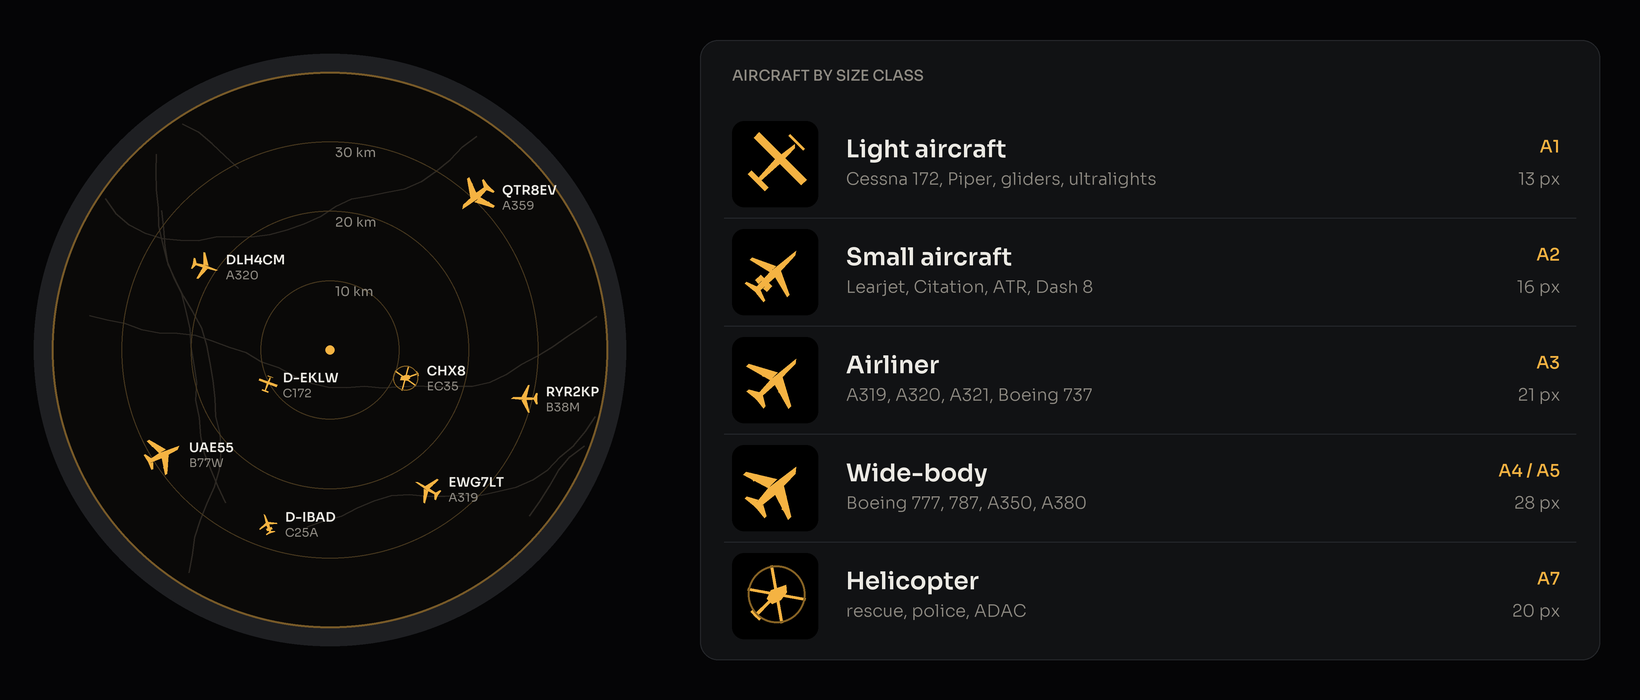
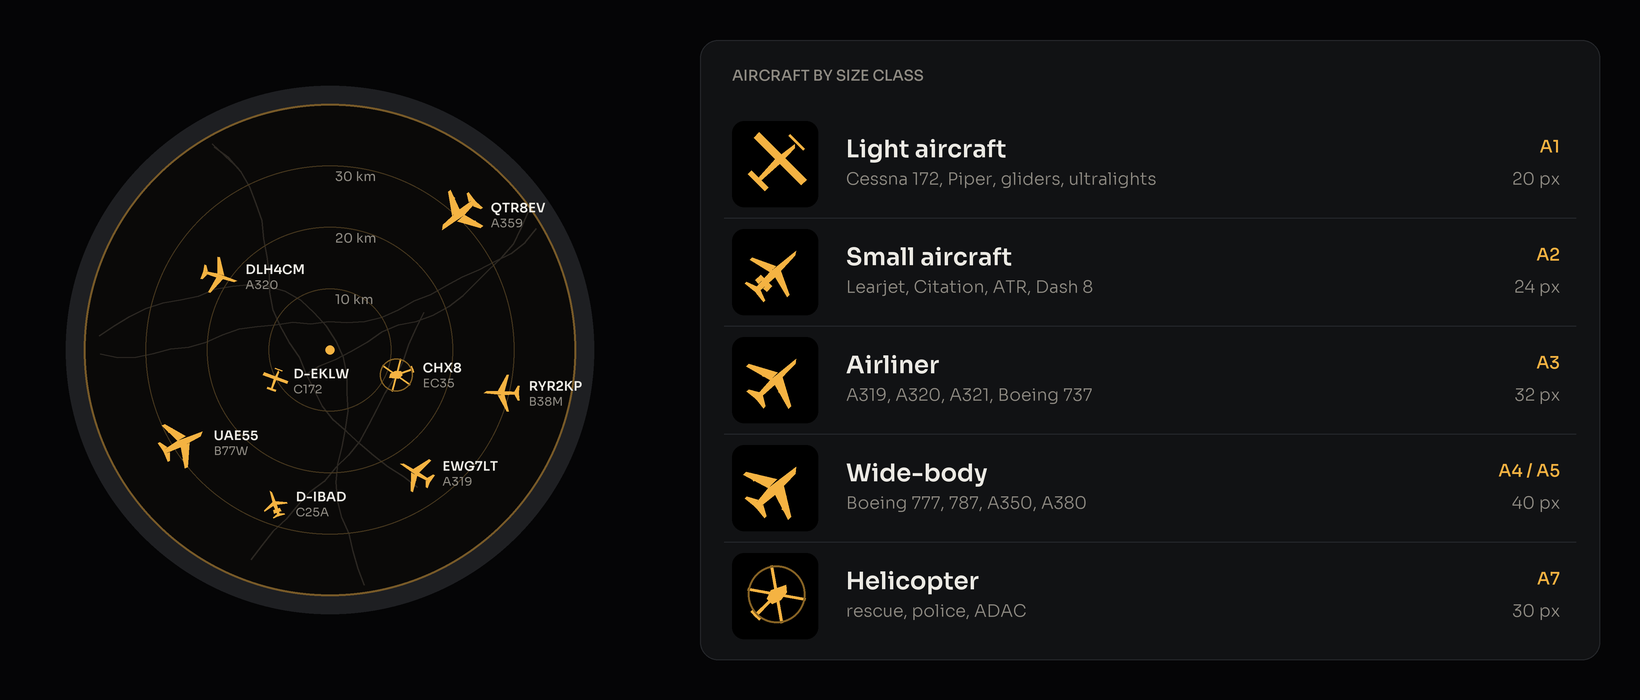
Flight tracker: the size-class symbols half as large again
The preview's 13 to 28 px read as specks on the glass, half the size of the
37 x 43 px aircraft the Tagesring theme drew before. Now 20 / 24 / 32 / 40 px,
helicopter 30, so an airliner is about the size the old symbol was. The redraw
reach follows (24 px), and the README picture and table with it.

diff --git a/src/radar_view.cpp b/src/radar_view.cpp
@@ -895,10 +895,12 @@ static inline int blip_reach_design(const theme_style::Radar &rs) {
     }
     return rs.blipSize;
 }
-// The class shapes (draw_class_shape) reach 16 px from the aircraft's position at most.
+// The class shapes (draw_class_shape) reach 24 px from the aircraft's position at most: the
+// wide-body's wing tip, 0.53 of its 40 px length out and 0.22 back, plus antialiasing.
+constexpr int CLASS_SHAPE_REACH = 24;
 static inline int blip_reach(const theme_style::Radar &rs) {
     const int r = blip_reach_design(rs);
-    return s_classShapes ? LV_MAX(16, r) : r;
+    return s_classShapes ? LV_MAX(CLASS_SHAPE_REACH, r) : r;
 }
 
 // glyph + label bounding box (for partial invalidation during the glide).
@@ -1357,10 +1359,12 @@ const ShapePiece P_HELI[] = {
     { 6, false, { {0,-.26f},{.1f,-.18f},{.12f,-.02f},{.06f,.13f},{-.06f,.13f},{-.12f,-.02f} } },
     { 4, false, { {-.025f,.1f},{.025f,.1f},{.025f,.48f},{-.025f,.48f} } },
 };
-// Lengths are the browser preview's: a 737 at 21 px, a 777 at 28, a Cessna at 13.
+// Lengths in px. The browser preview's 13 to 28 px read as specks on the glass (owner,
+// 2026-11-14), half the size of the 37 x 43 px aircraft the Tagesring theme drew before, so
+// an airliner is now about that size and the rest scale with it.
 const ClassShape SHAPES[] = {
     { 0, 0, nullptr },
-    { 13, 4, P_LIGHT }, { 16, 4, P_SMALL }, { 21, 4, P_LARGE }, { 28, 5, P_HEAVY }, { 20, 2, P_HELI },
+    { 20, 4, P_LIGHT }, { 24, 4, P_SMALL }, { 32, 4, P_LARGE }, { 40, 5, P_HEAVY }, { 30, 2, P_HELI },
 };
 }  // namespace
 

diff --git a/tools/gen_aircraft_classes_img.py b/tools/gen_aircraft_classes_img.py
@@ -39,11 +39,11 @@ P_HELI = [([(0,-.26),(.1,-.18),(.12,-.02),(.06,.13),(-.06,.13),(-.12,-.02)], Fal
           ([(-.025,.1),(.025,.1),(.025,.48),(-.025,.48)], False)]
 
 CLASSES = [
-    ("light", P_LIGHT, 13, "Light aircraft", "A1", "Cessna 172, Piper, gliders, ultralights"),
-    ("small", P_SMALL, 16, "Small aircraft", "A2", "Learjet, Citation, ATR, Dash 8"),
-    ("large", P_LARGE, 21, "Airliner", "A3", "A319, A320, A321, Boeing 737"),
-    ("heavy", P_HEAVY, 28, "Wide-body", "A4 / A5", "Boeing 777, 787, A350, A380"),
-    ("heli",  P_HELI,  20, "Helicopter", "A7", "rescue, police, ADAC"),
+    ("light", P_LIGHT, 20, "Light aircraft", "A1", "Cessna 172, Piper, gliders, ultralights"),
+    ("small", P_SMALL, 24, "Small aircraft", "A2", "Learjet, Citation, ATR, Dash 8"),
+    ("large", P_LARGE, 32, "Airliner", "A3", "A319, A320, A321, Boeing 737"),
+    ("heavy", P_HEAVY, 40, "Wide-body", "A4 / A5", "Boeing 777, 787, A350, A380"),
+    ("heli",  P_HELI,  30, "Helicopter", "A7", "rescue, police, ADAC"),
 ]
 
 
@@ -74,7 +74,7 @@ d = ImageDraw.Draw(img)
 S = lambda v: v * SS
 
 # ---- left: the scope, device pixels scaled 1.3x
-SC = 1.3; CX, CY, R = 330, 350, 214 * SC
+SC = 1.15; CX, CY, R = 330, 350, 214 * SC
 d.ellipse([S(CX - R - 18), S(CY - R - 18), S(CX + R + 18), S(CY + R + 18)], fill=(30, 31, 34))
 d.ellipse([S(CX - R), S(CY - R), S(CX + R), S(CY + R)], fill=(10, 9, 8))
 import random

diff --git a/README.md b/README.md
@@ -65,11 +65,11 @@ taken or left on its own.
 
 | Symbol | Class | Size on the Orb | Examples |
 |---|---|---|---|
-| Light aircraft | A1 (also gliders, ultralights, drones) | 13 px | Cessna 172, Piper |
-| Small aircraft | A2, A6 | 16 px | Learjet, Citation, ATR, Dash 8 |
-| Airliner | A3 | 21 px | A319, A320, A321, Boeing 737 |
-| Wide-body | A4, A5 | 28 px | Boeing 777, 787, A350, A380 |
-| Helicopter | A7 | 20 px | rescue, police, ADAC |
+| Light aircraft | A1 (also gliders, ultralights, drones) | 20 px | Cessna 172, Piper |
+| Small aircraft | A2, A6 | 24 px | Learjet, Citation, ATR, Dash 8 |
+| Airliner | A3 | 32 px | A319, A320, A321, Boeing 737 |
+| Wide-body | A4, A5 | 40 px | Boeing 777, 787, A350, A380 |
+| Helicopter | A7 | 30 px | rescue, police, ADAC |
 
 - **Special aircraft alert**: emergency squawks, rare types (A380, An-124, Beluga, 747, B-52...), rescue helicopters, military and low passes get a sonar ping (or a siren for an emergency) and a banner. Settings → Sound → Special alert.
 - **Tap an aircraft** on the glass to open its card, as turning the knob does; tap empty sky to close it.
